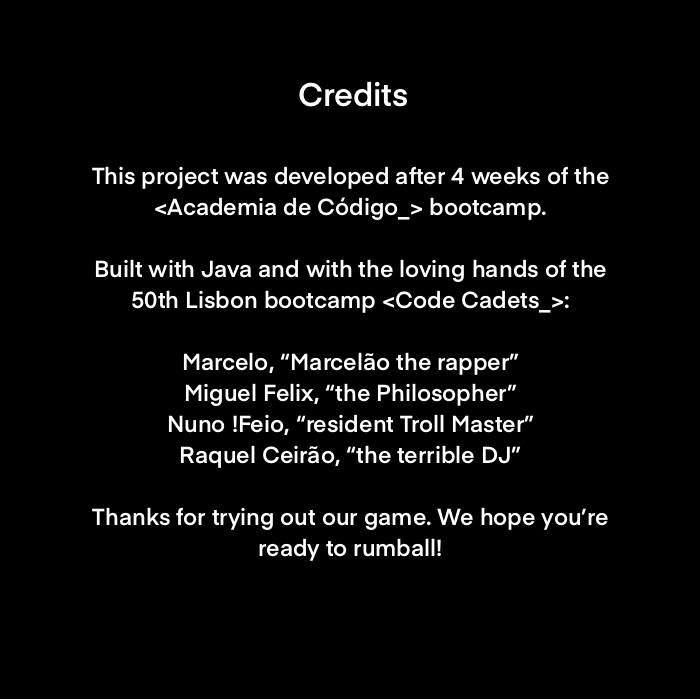
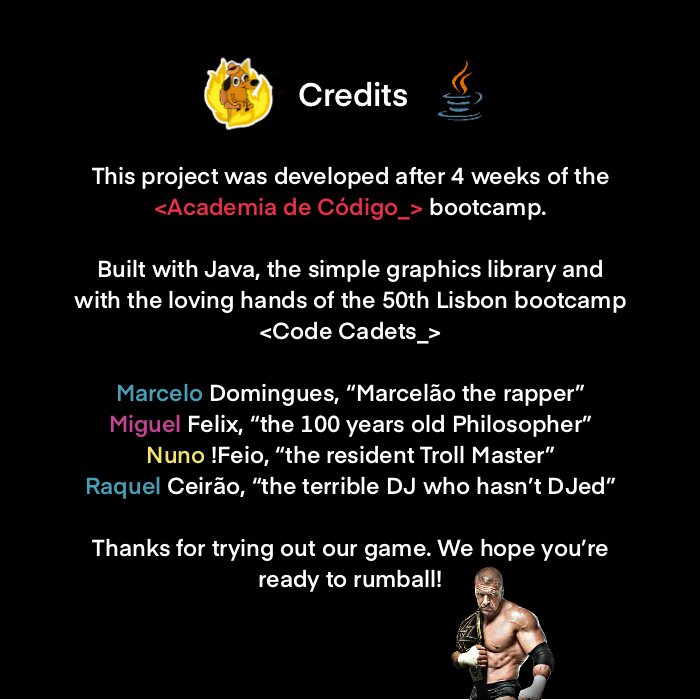
Updated Instructions, Credits, Title, fixed drawTextScore and drawScoreValue

diff --git a/src/org/academiadecodigo/bootcamp/game/GameLayout.java b/src/org/academiadecodigo/bootcamp/game/GameLayout.java
@@ -12,12 +12,12 @@ public class GameLayout {
     private int yMargin;
     private Color backgroundColor;
     private Rectangle marker;
-    private Text title;
     private Text[] menuOptions = new Text[MenuOption.values().length];
     private Picture instructions;
     private Picture credits;
     private Ellipse target;
     private Picture supportKeys;
+    private Picture title;
     private Text textScore;
     private Text scoreValue;
 
@@ -44,9 +44,7 @@ public class GameLayout {
     }
 
     public void drawTitle(){
-        title = new Text(width/2 - xMargin, 100, "MANURAMI");
-        title.grow(100, 40);
-        title.setColor(Color.WHITE);
+        title = new Picture(90 + xMargin, 50, "resources/img/manurami.png");
         title.draw();
     }
 
@@ -107,14 +105,14 @@ public class GameLayout {
     }
 
     public void drawTextScore(GameLayout gameLayout) {
-        textScore = new Text(gameLayout.getWidth() / 2 - gameLayout.getxMargin(), 80, "Score");
+        textScore = new Text(380 - gameLayout.getxMargin(), 80, "Score");
         textScore.grow(60, 30);
         textScore.setColor(Color.WHITE);
         textScore.draw();
     }
 
     public void drawScoreValue(GameLayout gameLayout, int score) {
-        scoreValue = new Text(gameLayout.getWidth() / 2 - gameLayout.getxMargin(), 140, Integer.toString(score));
+        scoreValue = new Text(380 - gameLayout.getxMargin(), 140, Integer.toString(score));
         scoreValue.grow(15, 30);
         scoreValue.setColor(Color.WHITE);
         scoreValue.draw();
